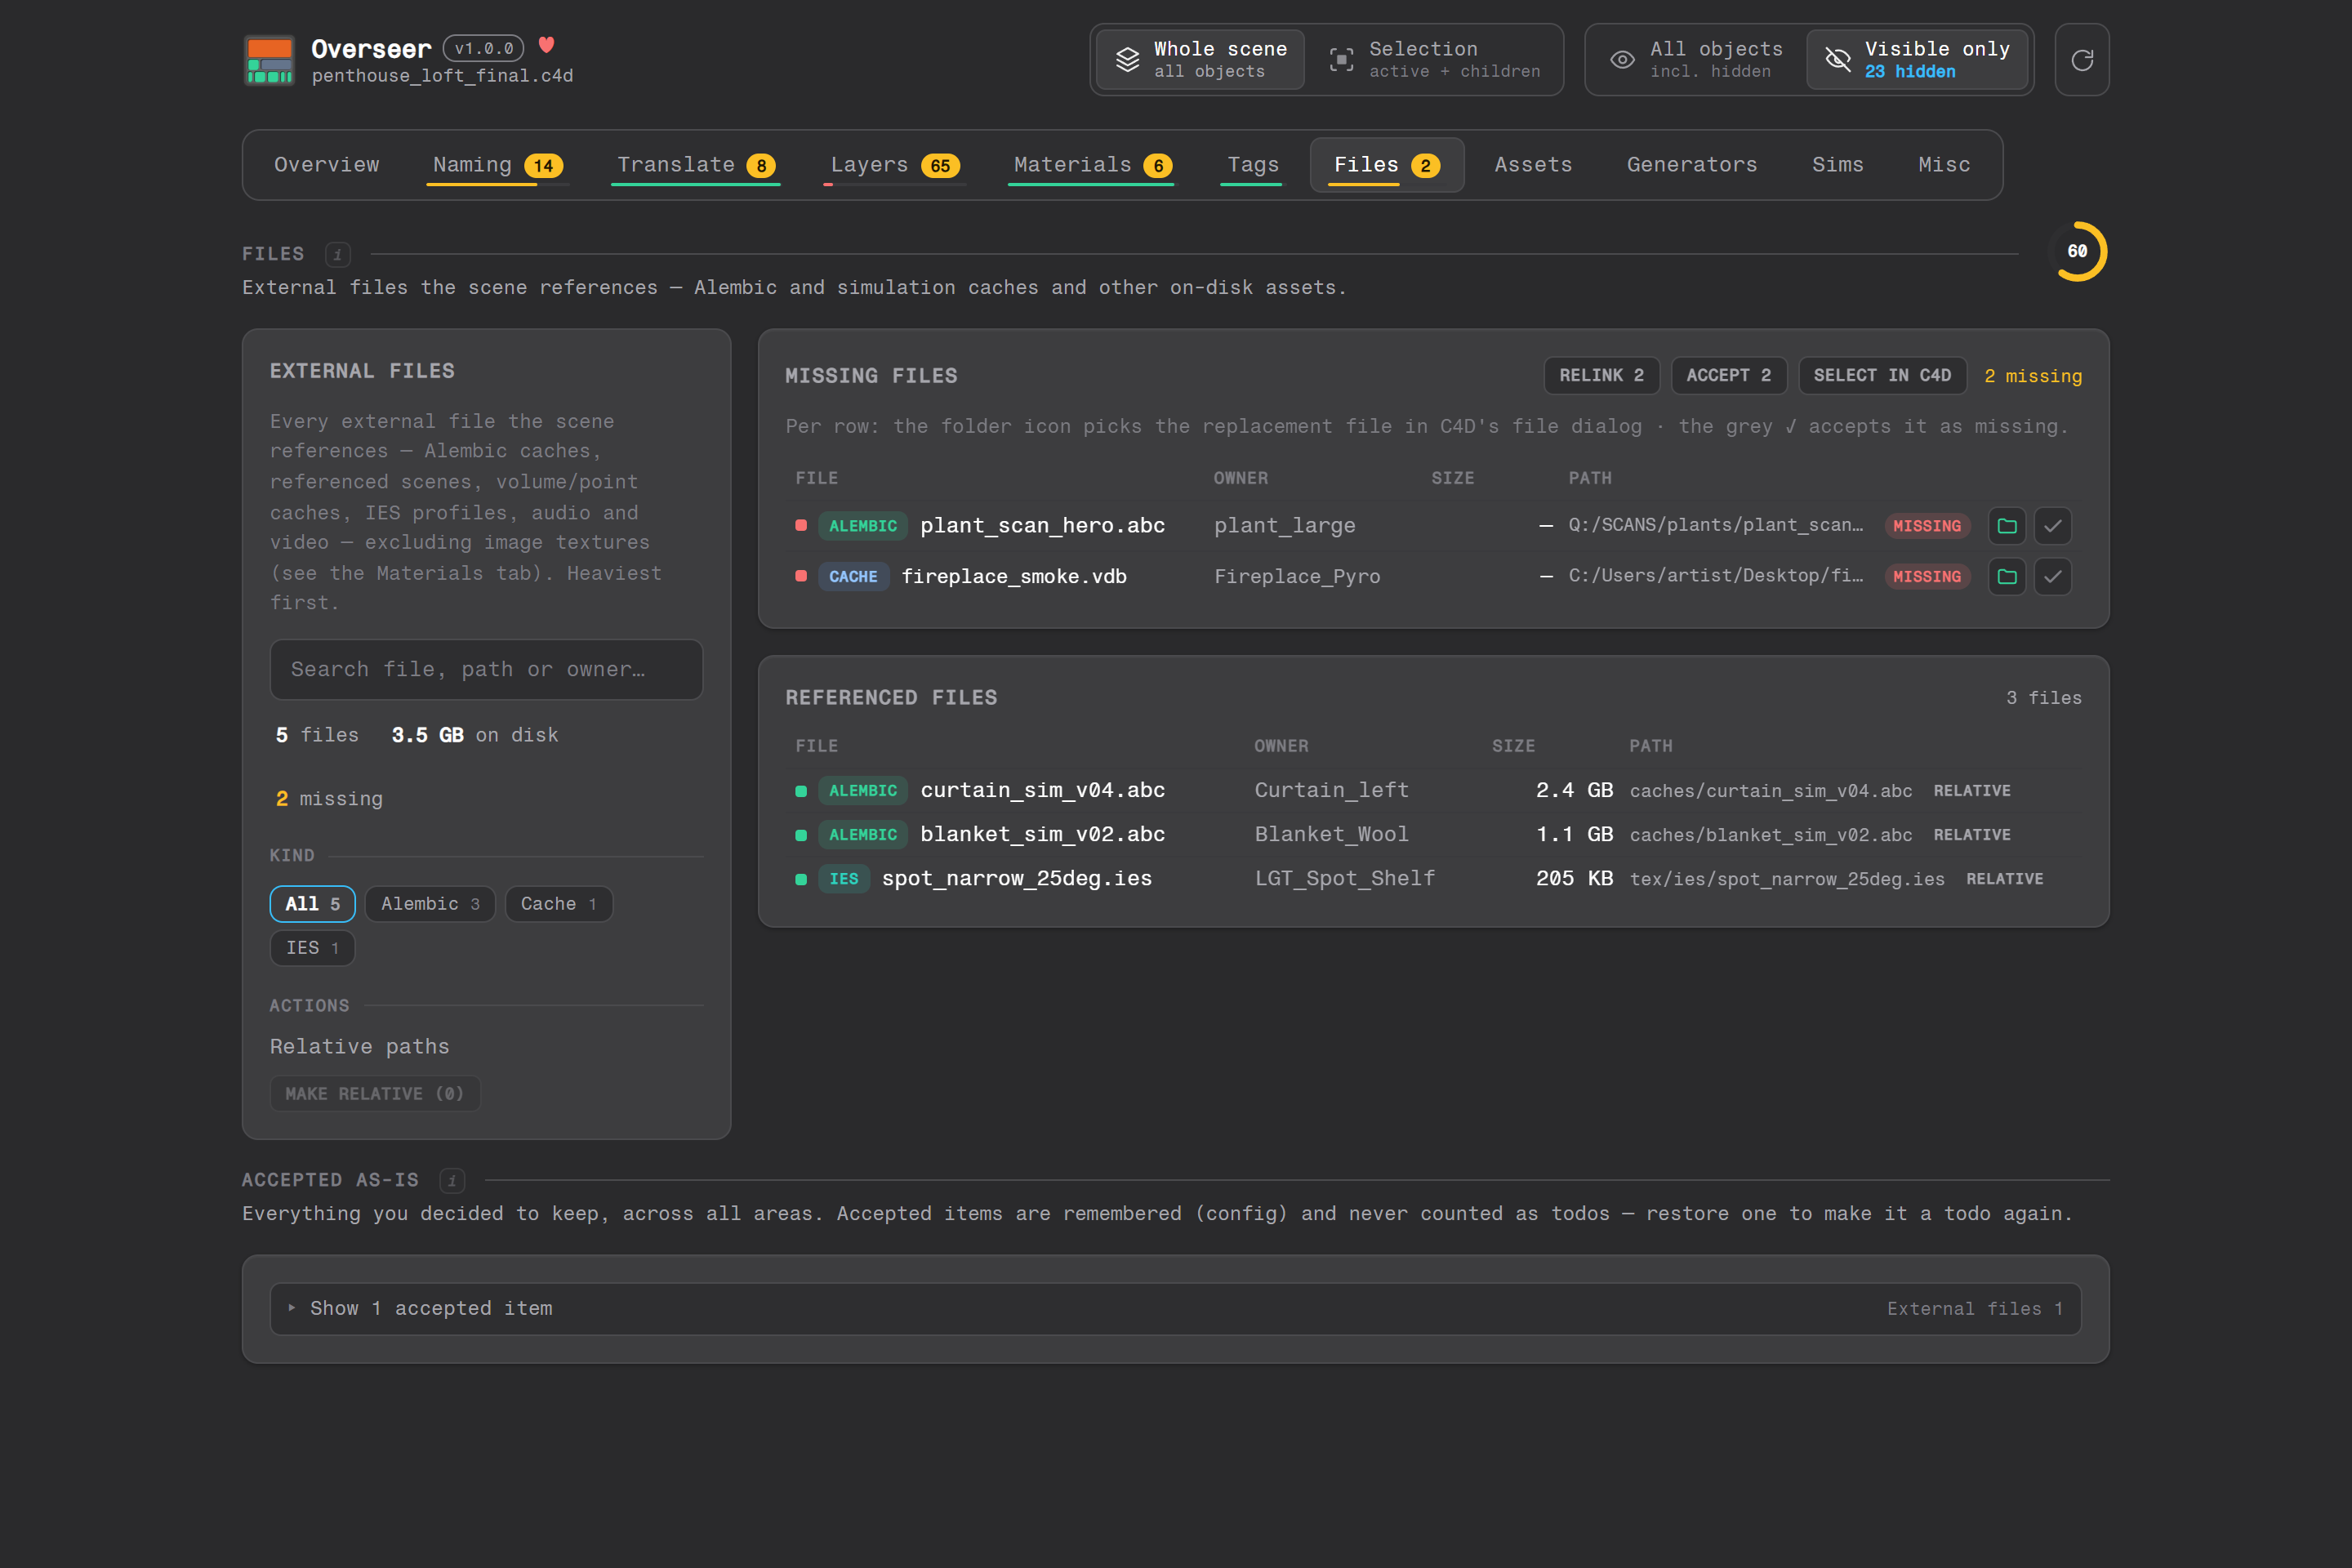
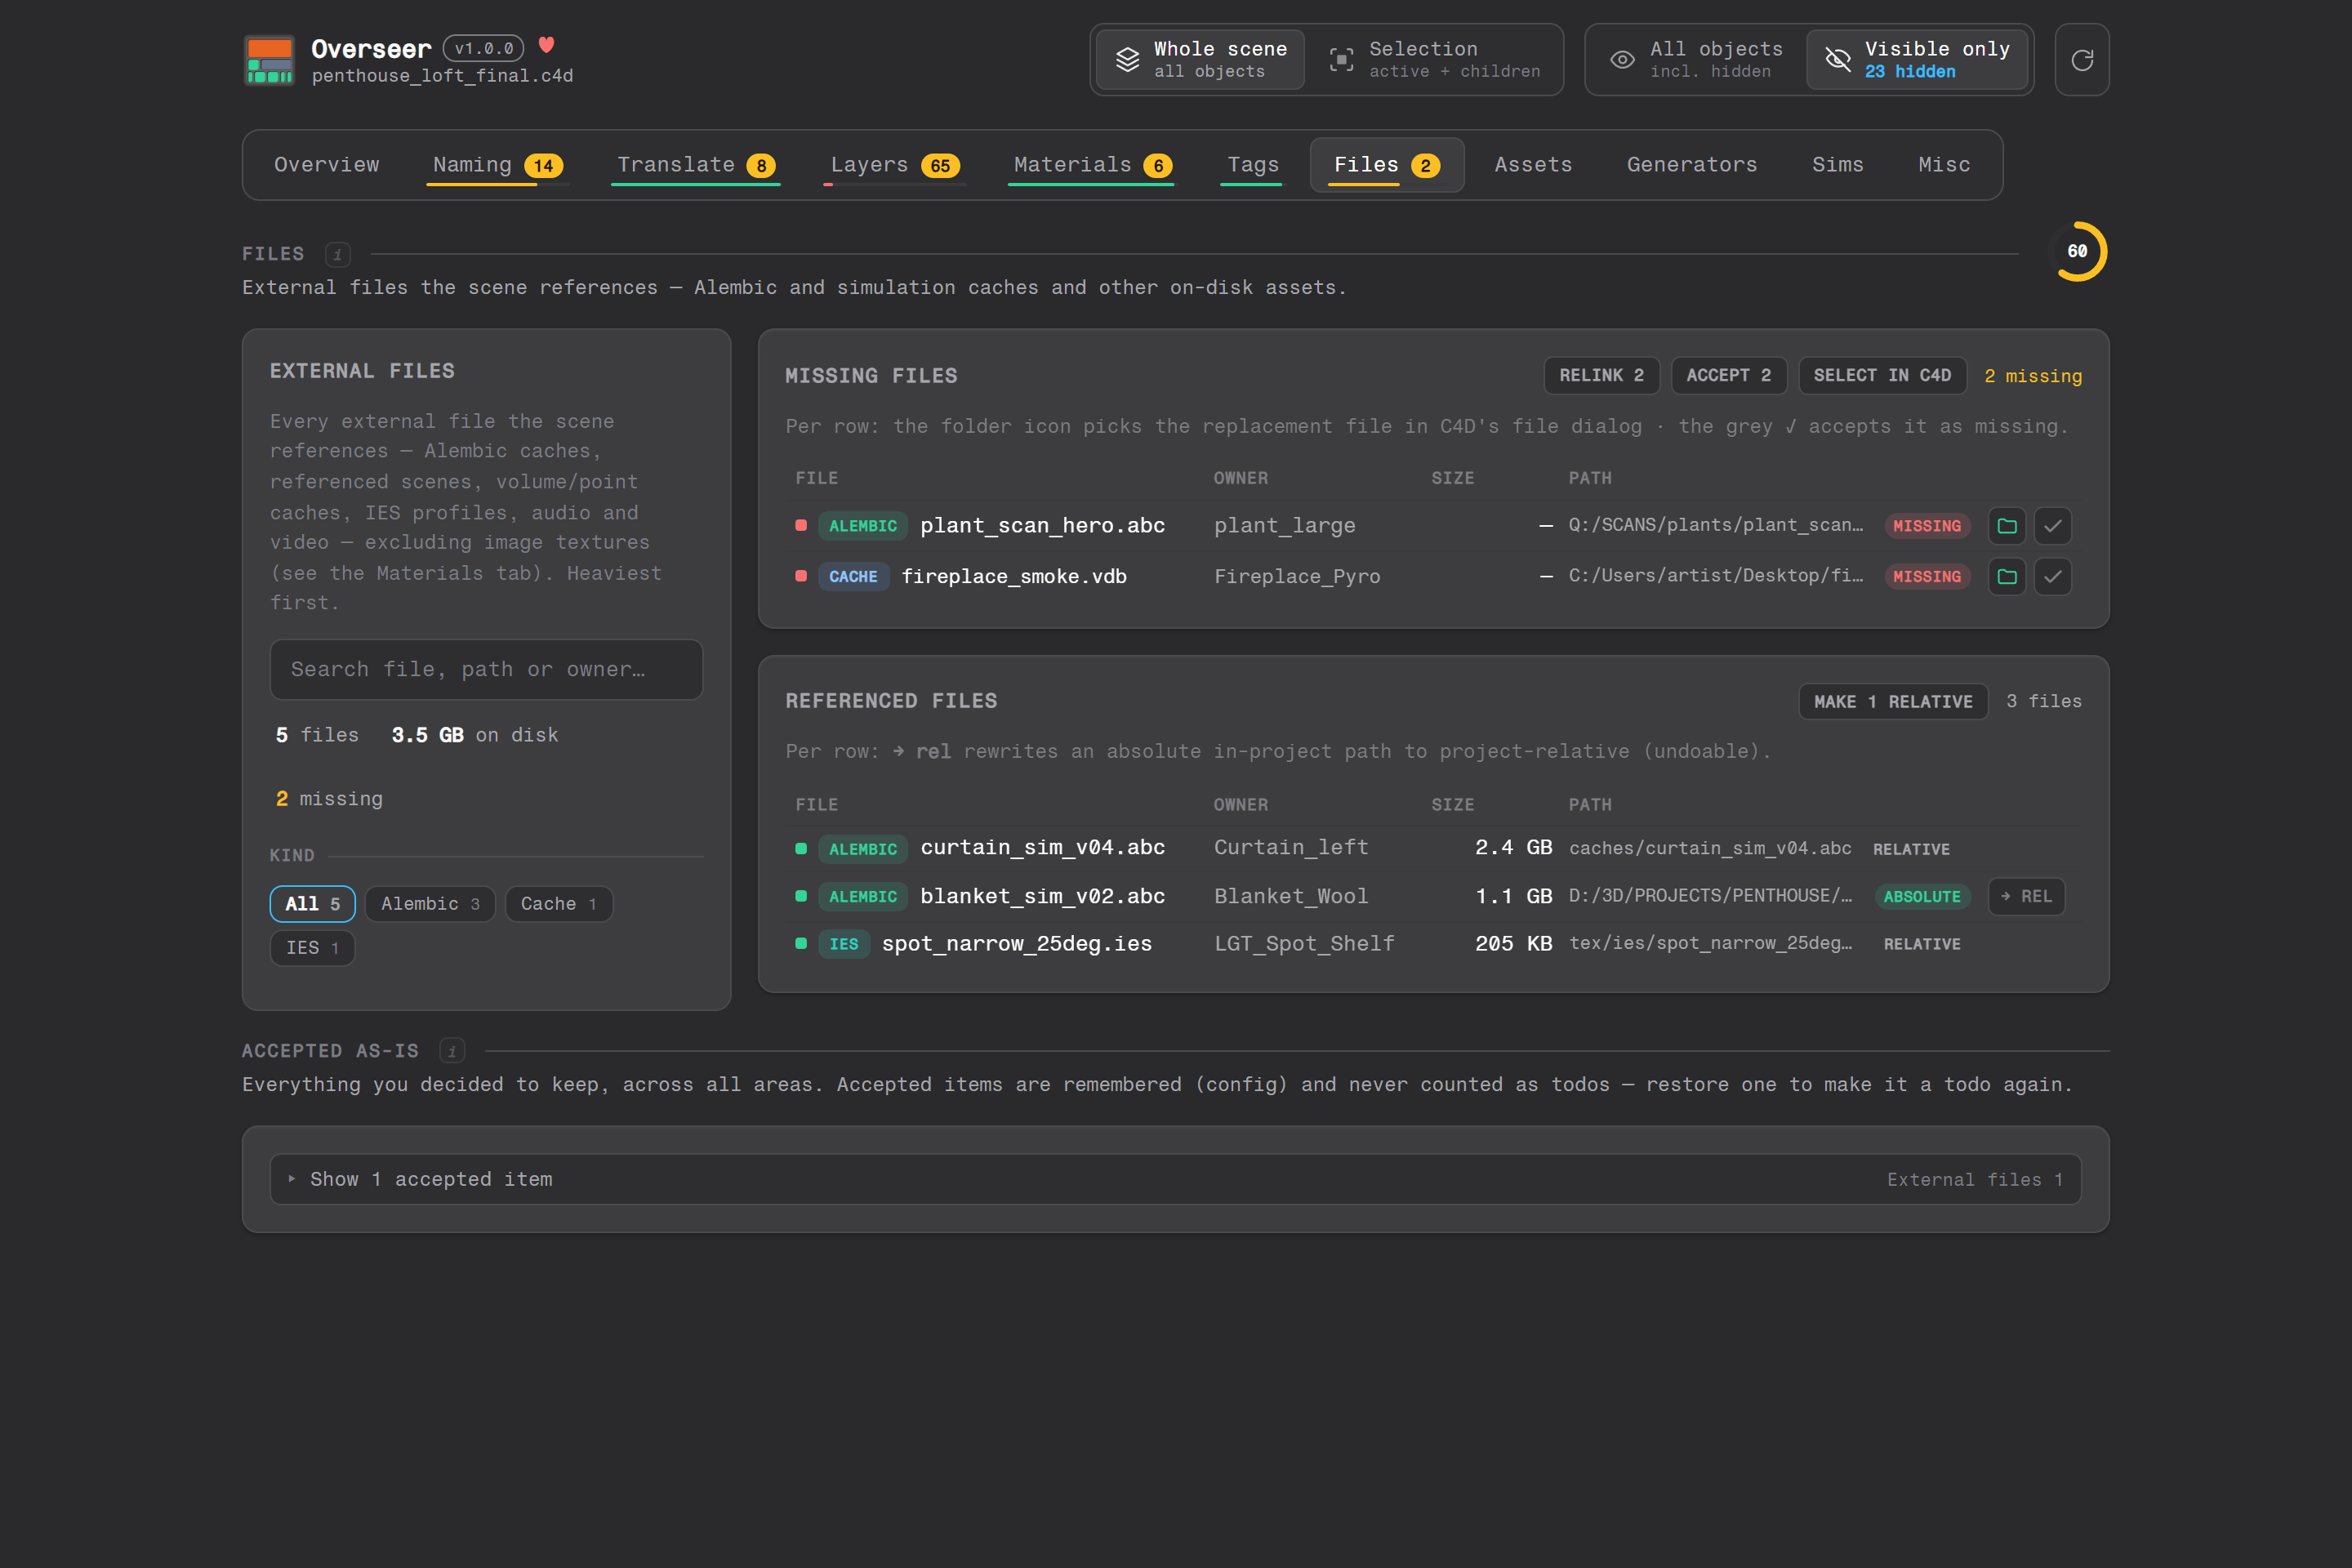
Files: make relative works for every kind, per row and from the list header
- _make_relative rewrites via _rewrite_everywhere (same mechanism as
  pick/relink) instead of poking the Alembic generator param — the
  "N skipped" dead end for non-Alembic and orphaned entries is gone
- optional paths payload narrows the op to one stored path
- FilesTab: per-row "→ rel" chip on relocatable rows; batch button moves
  from the sidebar into the Referenced-files header (analog Textures)
- e2e: labels updated + per-row rel test; readme fixture shows the feature

diff --git a/frontend/src/tabs/FilesTab.tsx b/frontend/src/tabs/FilesTab.tsx
@@ -35,13 +35,14 @@ function selectable(e: FileEntry): '' | 'object' | 'material' {
   return ''
 }
 
-function FileTable({ rows, onFocus, onPick, onAccept }: {
+function FileTable({ rows, onFocus, onPick, onAccept, onRel }: {
   rows: FileEntry[]
   onFocus: (e: FileEntry) => void
   onPick?: (e: FileEntry) => void
   onAccept?: (e: FileEntry) => void
+  onRel?: (e: FileEntry) => void
 }) {
-  const hasActions = !!(onPick || onAccept)
+  const hasActions = !!(onPick || onAccept || onRel)
   const cols = 'cols-files' + (hasActions ? ' dg-actionable' : '')
   return (
     <div className="dg-table">
@@ -52,7 +53,8 @@ function FileTable({ rows, onFocus, onPick, onAccept }: {
         <Tip text="Stored path. Badge shows absolute / relative / missing."><span>Path</span></Tip>
       </div>
       {rows.map((e, i) => {
-        const actionable = e.missing && hasActions
+        const canRel = !e.missing && e.absolute && e.relocatable && !!onRel
+        const actionable = (e.missing && !!(onPick || onAccept)) || canRel
         const sel = selectable(e)
         return (
           <div className={'dg-tr ' + (sel ? 'dg-click ' : '') + cols}
@@ -72,30 +74,35 @@ function FileTable({ rows, onFocus, onPick, onAccept }: {
             <span className="num">{e.bytes > 0 ? humanBytes(e.bytes) : '—'}</span>
             {/* The badge states WHAT THE PATH IS — never what it could become
                 (same rule as the texture table: the old "→ relative" read as
-                "this is relative"). The rewrite offer lives in the sidebar's
-                "Make relative" action, and only Alembic paths qualify. */}
+                "this is relative"). The rewrite offer lives in the row's
+                "→ rel" button, where it belongs. */}
             <span className="dg-cell-path dim">
               <span className="dg-cut">{e.path}</span>
               {e.missing
                 ? <span className="pill missing">missing</span>
                 : e.absolute
-                  ? <span className={'pill' + (e.relocatable && e.kind === 'alembic' ? ' fixable' : '')}
+                  ? <span className={'pill' + (e.relocatable ? ' fixable' : '')}
                       title={e.relocatable
-                        ? (e.kind === 'alembic'
-                            ? `Absolute, but the file lives under the project folder — “Make relative” rewrites it to ${e.rel_target || 'a project-relative path'}`
-                            : 'Absolute; the file lives under the project folder, but only Alembic paths can be rewritten so far')
+                        ? `Absolute, but the file lives under the project folder — “→ rel” rewrites it to ${e.rel_target || 'a project-relative path'}`
                         : 'Absolute path to a file outside the project folder'}>absolute</span>
                   : <span className="pill" title="Relative to the project folder">relative</span>}
             </span>
             {actionable && (
               <span className="rn-actions" onClick={(ev) => ev.stopPropagation()}>
-                {onPick && (
+                {e.missing && onPick && (
                   <button className="rn-ok" title="Browse — pick the replacement file in Cinema 4D's file dialog (undoable)"
                     onClick={() => onPick(e)}><IconFolder /></button>
                 )}
-                {onAccept && (
+                {e.missing && onAccept && (
                   <button className="rn-keep" title="Accept as missing — stops counting as a problem (restore below)"
                     onClick={() => onAccept(e)}><IconCheck /></button>
+                )}
+                {canRel && (
+                  <button className="rn-keep tex-chip"
+                    title={`Rewrite this path relative to the project folder: ${e.rel_target || 'project-relative'} (undoable)`}
+                    onClick={() => onRel!(e)}>
+                    → rel
+                  </button>
                 )}
               </span>
             )}
@@ -182,9 +189,20 @@ export default function FilesTab({ org }: { org: Organizer }) {
     try {
       const r = await call('files_make_relative', {})
       setNote(`Rewrote ${plural(r.fixed, 'path')} ✓ (undoable)`
-        + (r.skipped ? ` · ${r.skipped} skipped` : ''))
+        + (r.skipped ? ` · ${r.skipped} skipped (path not found in the scene)` : ''))
       await reload()
     } catch (e: any) { fail(e) }
+  }
+  // Per-row "→ rel": same op, narrowed to that one stored path.
+  const relOne = async (e: FileEntry) => {
+    setNote('')
+    try {
+      const r = await call('files_make_relative', { paths: [e.path] })
+      setNote(r.fixed
+        ? `“${e.file}” → ${e.rel_target || 'project-relative'} ✓ (undoable)`
+        : 'Path not found in the scene — nothing rewritten.')
+      await reload()
+    } catch (err: any) { fail(err) }
   }
 
   if (!data) {
@@ -198,9 +216,7 @@ export default function FilesTab({ org }: { org: Organizer }) {
   }
 
   const s = data.summary
-  // files_make_relative only rewrites Alembic references — every other kind is
-  // counted as skipped server-side, so the button must not promise them.
-  const reloc = entries.filter((e) => e.relocatable && e.kind === 'alembic').length
+  const reloc = entries.filter((e) => e.relocatable).length
   const canFix = reloc > 0 && !!data.doc_path
 
   return (
@@ -233,18 +249,9 @@ export default function FilesTab({ org }: { org: Organizer }) {
                 title: key ? `Show only ${label} files` : 'Show every kind',
               }))} />
 
-          <div className="section-head sm"><span>Actions</span></div>
-          <h4 className="side-action-title">Relative paths</h4>
           {!data.doc_path && (
             <p className="hint-sm">Project not saved — paths cannot be made relative yet.</p>
           )}
-          <ActionButton tone="go" disabled={loading || !canFix}
-            title={canFix
-              ? `Rewrite ${reloc} absolute path(s) under the project folder to relative (undoable)`
-              : 'No absolute paths inside the project folder'}
-            onClick={() => setConfirm(true)}>
-            Make relative ({reloc})
-          </ActionButton>
           {note && <p className="example" style={{ marginTop: 4 }}>{note}</p>}
         </aside>
 
@@ -293,10 +300,24 @@ export default function FilesTab({ org }: { org: Organizer }) {
             <div className="card-head">
               <h3>Referenced files</h3>
               <span className="head-count">{pager.total} files</span>
+              <span className="wb-head-actions">
+                <ActionButton tone="go" disabled={loading || !canFix}
+                  title={canFix
+                    ? `Rewrite ${plural(reloc, 'absolute path')} under the project folder to relative (undoable)`
+                    : data.doc_path
+                      ? 'No absolute paths inside the project folder'
+                      : 'Project not saved — paths cannot be made relative yet'}
+                  onClick={() => setConfirm(true)}>
+                  Make {reloc} relative
+                </ActionButton>
+              </span>
             </div>
+            {reloc > 0 && (
+              <p className="hint-sm">Per row: <b>→ rel</b> rewrites an absolute in-project path to project-relative (undoable).</p>
+            )}
             {pager.total
               ? <>
-                  <FileTable rows={pager.rows} onFocus={onFocus} />
+                  <FileTable rows={pager.rows} onFocus={onFocus} onRel={relOne} />
                   <Pager pager={pager} />
                 </>
               : <div className="empty-note">
@@ -333,7 +354,7 @@ export default function FilesTab({ org }: { org: Organizer }) {
       {confirm && (
         <ConfirmModal
           title="Make paths relative"
-          message={`Rewrite ${plural(reloc, 'absolute Alembic path')} that live under the project folder to project-relative paths. Other asset kinds are left untouched. This is a single, undoable step.`}
+          message={`Rewrite ${plural(reloc, 'absolute path')} that live under the project folder to project-relative paths. Files outside the project folder are left untouched. This is a single, undoable step.`}
           confirmLabel={`Make ${reloc} relative`}
           onConfirm={doMakeRelative}
           onCancel={() => setConfirm(false)}

diff --git a/frontend/e2e/files.spec.ts b/frontend/e2e/files.spec.ts
@@ -14,8 +14,9 @@ async function openFiles(page: Page): Promise<void> {
   await expect(page.locator('.wb-side')).toBeVisible()
 }
 
-// A minimal files scan carrying one relocatable Alembic path — the only shape
-// that enables the "Make relative" action (the shared fixture has none).
+// A minimal files scan carrying one relocatable path (any kind qualifies) —
+// the shape that enables the "Make relative" actions (the shared fixture has
+// none).
 const RELOC_SCAN = {
   ok: true,
   doc_path: 'D:/3D/PROJECTS/PENTHOUSE',
@@ -65,8 +66,8 @@ test('renders the scan summary, both file lists and a disabled Make relative', a
   await expect(missingCount(page)).toHaveText('2 missing')
   await expect(referencedCard(page).locator('.head-count')).toHaveText('3 files')
 
-  // The shared fixture has no relocatable Alembic path, so the action is off.
-  const makeRel = page.getByRole('button', { name: 'Make relative (0)' })
+  // The shared fixture has no relocatable path, so the action is off.
+  const makeRel = page.getByRole('button', { name: 'Make 0 relative' })
   await expect(makeRel).toBeDisabled()
 
   // (a) API: the area's data op fired.
@@ -244,7 +245,7 @@ test('Make relative — enabled by a relocatable path, cancel + confirm', async 
   })
   await openFiles(page)
 
-  const makeRel = page.getByRole('button', { name: 'Make relative (1)' })
+  const makeRel = page.getByRole('button', { name: 'Make 1 relative' })
   await expect(makeRel).toBeEnabled()
 
   // Open then cancel: nothing is rewritten.
@@ -261,6 +262,26 @@ test('Make relative — enabled by a relocatable path, cancel + confirm', async 
 
   await expect.poll(() => api.find('files_make_relative')).toBeTruthy()
   await expect(page.locator('.example')).toContainText('Rewrote 1 path')
+})
+
+test('per-row → rel rewrites that one stored path', async ({ page }) => {
+  const api = await mockApi(page, {
+    files_scan: RELOC_SCAN,
+    files_make_relative: { ok: true, fixed: 1, skipped: 0 },
+  })
+  await openFiles(page)
+
+  // The relocatable row carries its own "→ rel" button on the right (exact:
+  // the row itself is a button whose accessible name contains the chip text).
+  await referencedCard(page).getByRole('button', { name: '→ rel', exact: true }).click()
+
+  // (a) API: files_make_relative narrowed to exactly this path.
+  await expect.poll(() => api.find('files_make_relative')).toBeTruthy()
+  expect(api.find('files_make_relative')?.body).toMatchObject({
+    paths: ['D:/3D/PROJECTS/PENTHOUSE/caches/curtain_sim.abc'],
+  })
+  // (b) UI: the note names the rewritten target.
+  await expect(page.locator('.example')).toContainText('caches/curtain_sim.abc')
 })
 
 test('the Accepted panel lists a kept file and restores it', async ({ page }) => {
@@ -289,7 +310,7 @@ test('empty scan shows the "no external files" placeholder', async ({ page }) =>
   await expect(page.locator('.substats')).toContainText('0')
   await expect(missingCard(page)).toHaveCount(0)
   await expect(referencedCard(page)).toContainText('No external files')
-  await expect(page.getByRole('button', { name: 'Make relative (0)' })).toBeDisabled()
+  await expect(page.getByRole('button', { name: 'Make 0 relative' })).toBeDisabled()
 })
 
 test('a failing scan shows the error state and retries', async ({ page }) => {

diff --git a/src/overseer/cinema/audit_files.py b/src/overseer/cinema/audit_files.py
@@ -298,33 +298,22 @@ def _make_relative(doc, adapter, payload) -> dict:
                 "error": "Project is not saved (no folder to make paths relative to)."}
     wanted = payload.get("paths")
     wanted_set = set(wanted) if wanted else None
-    pid = _alembic_path_id()
 
+    # Any kind: _rewrite_everywhere finds the path parameter wherever it
+    # lives (the same mechanism pick-replacement and relink already use),
+    # so this is not limited to the Alembic generator's known param.
     scan = _scan(doc, adapter)
-    targets: list = []
+    doc.StartUndo()
+    fixed = 0
     skipped = 0
     for e in scan["entries"]:
-        if not e["relocatable"]:
+        if not e["relocatable"] or not e["rel_target"]:
             continue
         if wanted_set is not None and e["path"] not in wanted_set:
             continue
-        obj = adapter._by_guid.get(e["guid"]) if e["guid"] is not None else None
-        if e["kind"] == "alembic" and obj is not None and pid is not None:
-            targets.append((obj, e["rel_target"]))
-        else:
-            skipped += 1
-
-    if not targets:
-        return {"ok": True, "fixed": 0, "skipped": skipped}
-
-    doc.StartUndo()
-    fixed = 0
-    for obj, rel in targets:
-        try:
-            doc.AddUndo(c4d.UNDOTYPE_CHANGE, obj)
-            obj[pid] = rel
+        if _rewrite_everywhere(doc, adapter, e["path"], e["rel_target"]):
             fixed += 1
-        except Exception:
+        else:
             skipped += 1
     doc.EndUndo()
     c4d.EventAdd()

diff --git a/docs/overseer/cinema/audit_files.md b/docs/overseer/cinema/audit_files.md
@@ -47,9 +47,11 @@ this module deliberately skips `fl.is_image` paths.
   everywhere. One undo step.
 - `_relink(...)` — indexes a search folder by filename and relinks missing
   references by basename match. One undo step; progress every 200 files.
-- `_make_relative(...)` — converts relocatable absolute paths to relative.
-  Errors when the project is unsaved (no folder to relate to). Only Alembic
-  paths are rewritten in place; other kinds are counted as skipped.
+- `_make_relative(...)` — converts relocatable absolute paths to relative,
+  any kind, via `_rewrite_everywhere` (the same mechanism pick/relink use).
+  Optional `paths` payload narrows it to specific stored paths (per-row
+  "→ rel"). Errors when the project is unsaved (no folder to relate to);
+  a path no holder carries anymore counts as skipped.
 - `_select(...)` — selects the owners named by `guids`.
 - `handle(op, ...)` — dispatch for `files_scan` / `files_make_relative` /
   `files_select` / `files_pick_path` / `files_relink`.

diff --git a/docs/FEATURES.md b/docs/FEATURES.md
@@ -174,7 +174,8 @@ in Materials).
 - ✅ **Accepted-as-missing list** — remembered in the config, restorable,
   and reflected in the Files health score.
 - ✅ **Make relative** — absolute paths under the project folder rewritten
-  in one undoable step.
+  to project-relative, any kind: per row with **→ rel**, or all at once
+  from the list header (one undoable step).
 
 ## Assets
 